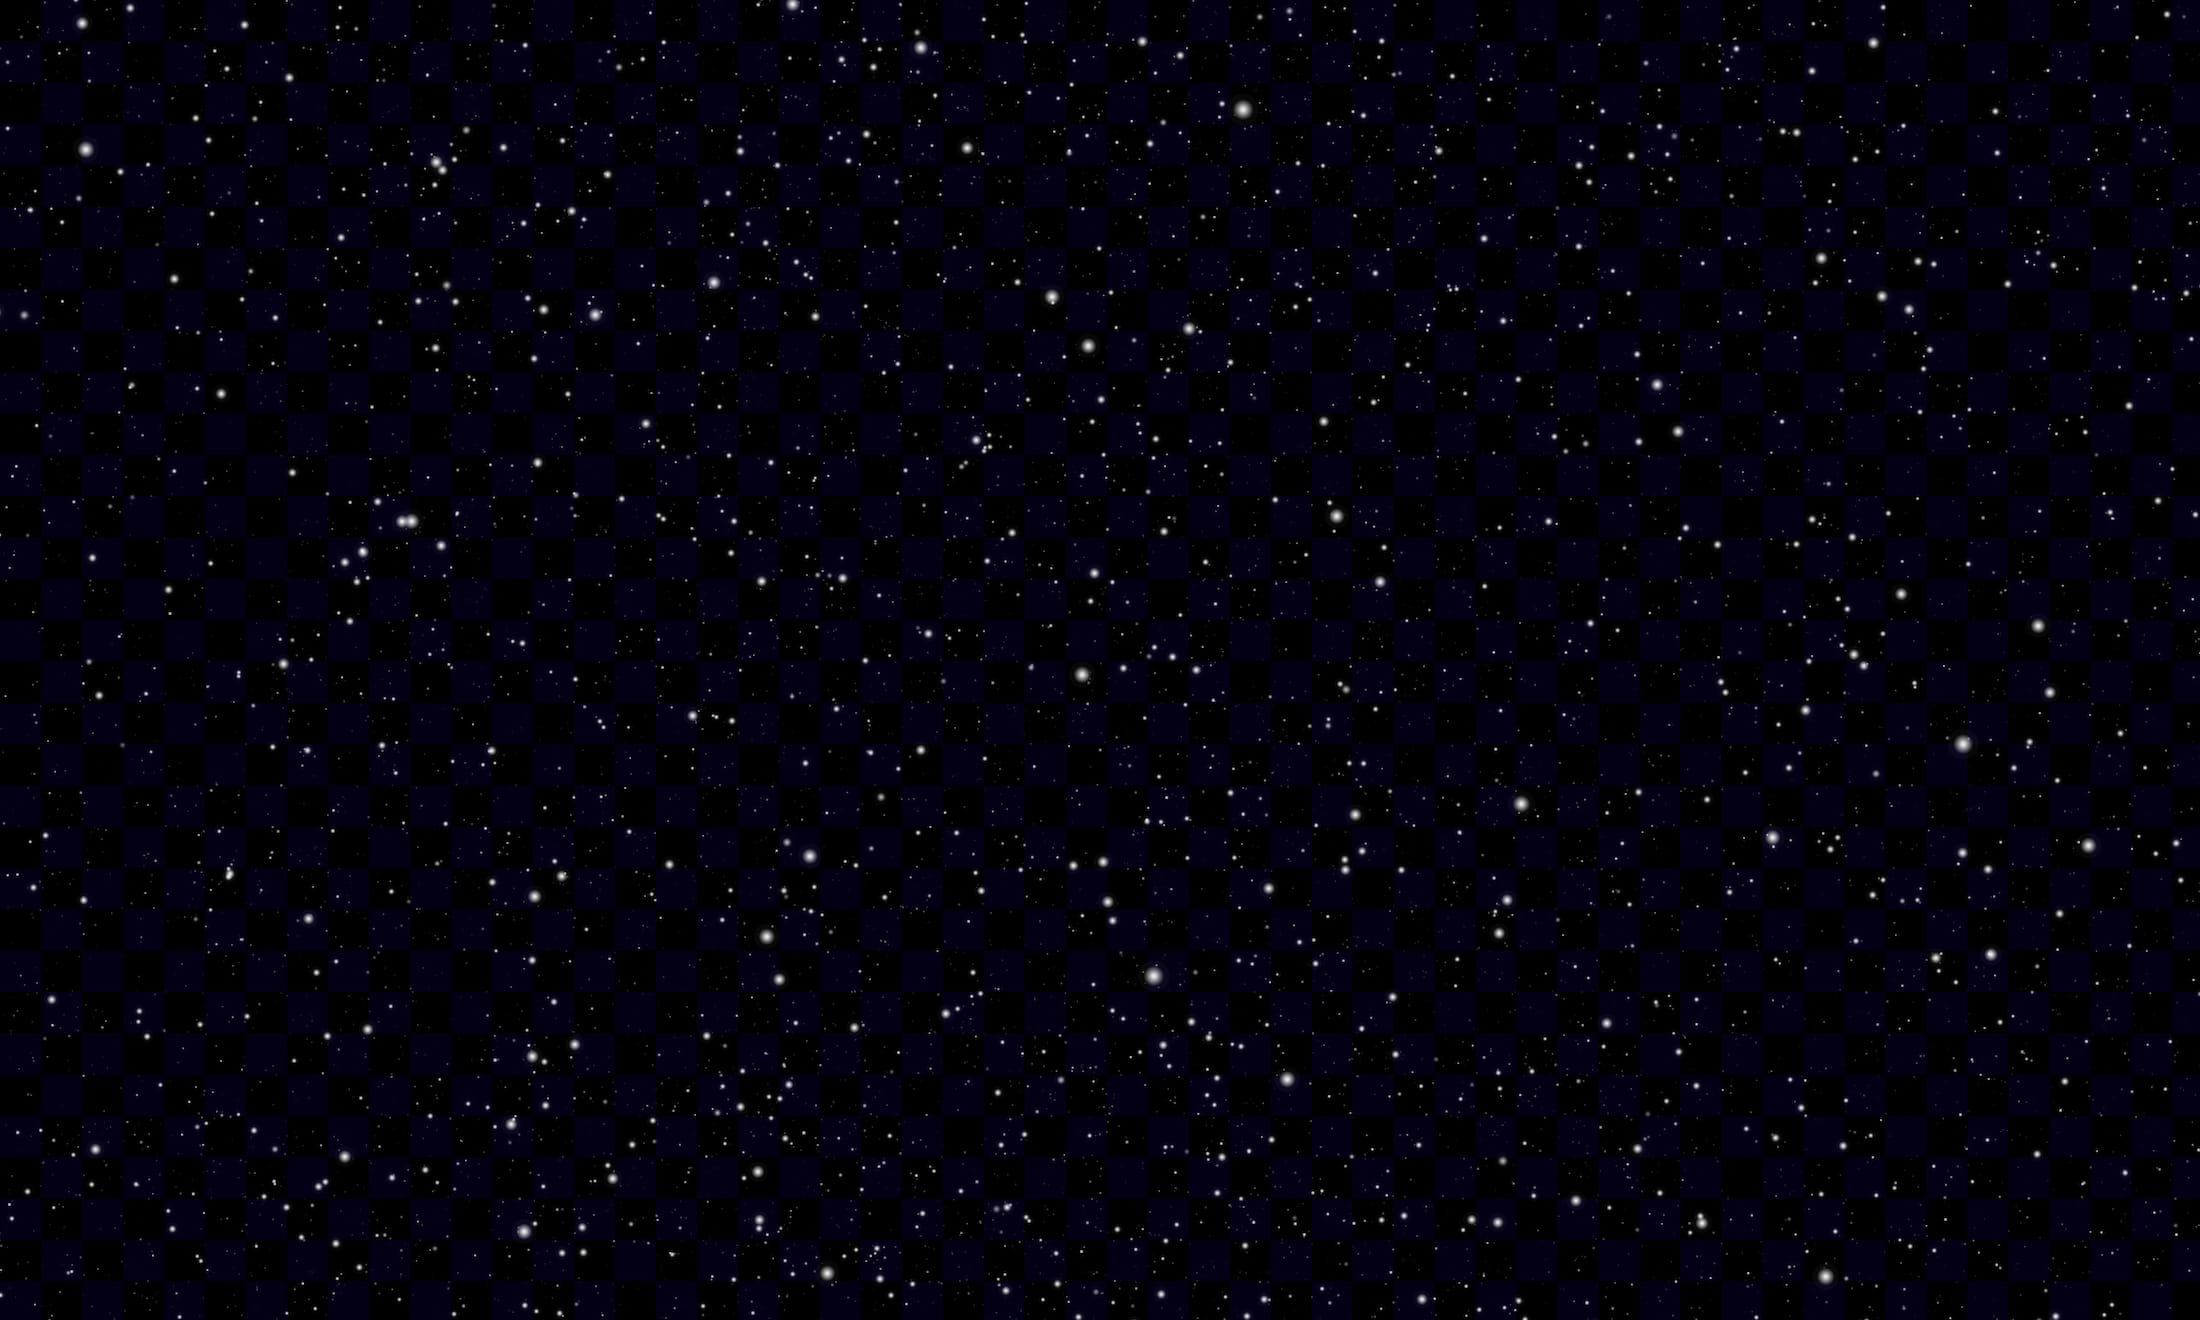
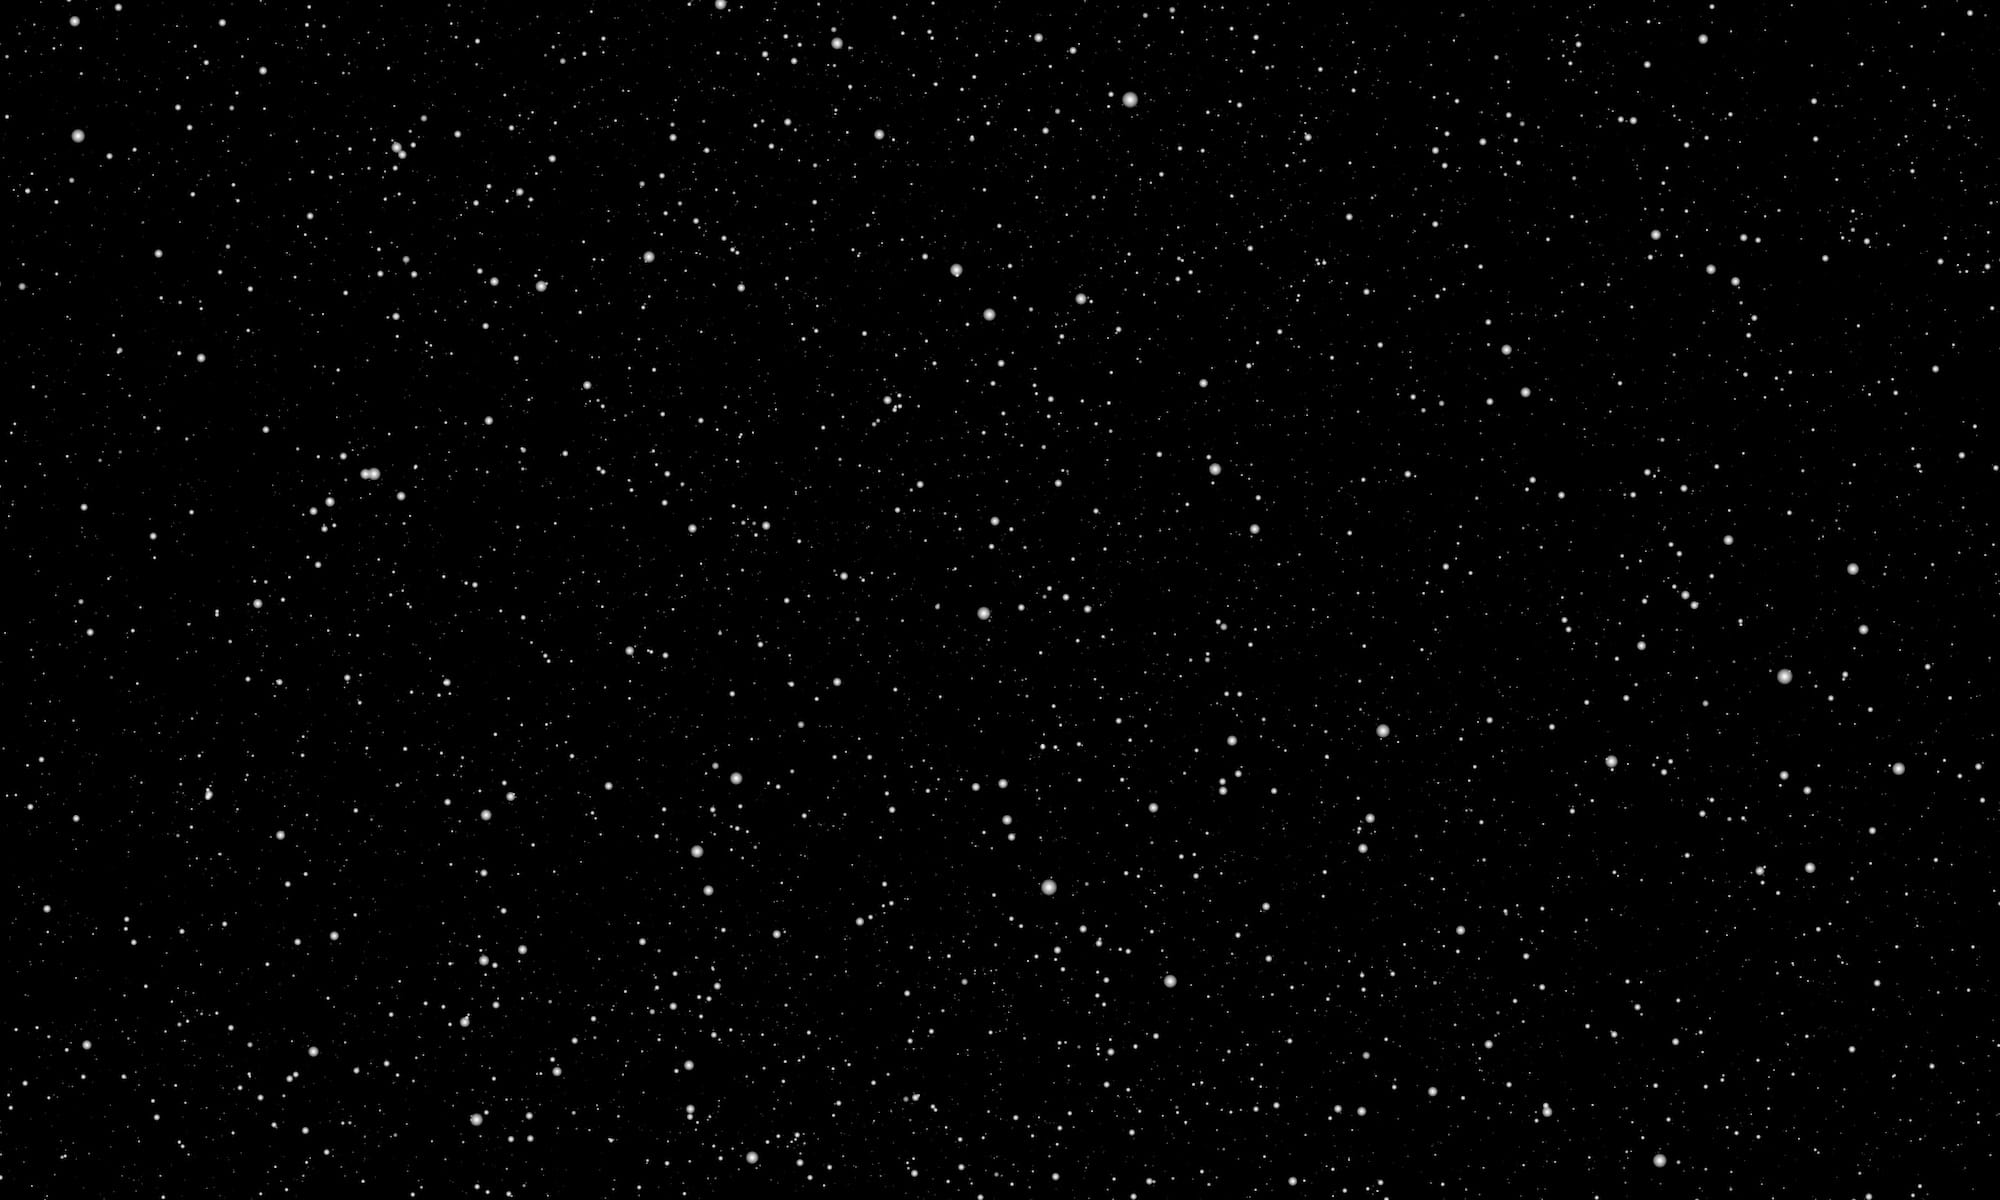
✨ add moving bg layer - convert webp

diff --git a/lib/pixi/spaceBg/createSpaceBg.ts b/lib/pixi/spaceBg/createSpaceBg.ts
@@ -1,0 +1,69 @@
+import gsap from 'gsap'
+import { Application, Assets, Sprite, Texture } from 'pixi.js'
+
+import { APP_CONFIG } from '#lib/constants'
+import { setSpaceStore } from '#pixi/store'
+import { createContainer } from '#pixi/system/createContainer'
+import { createSprite } from '#pixi/system/createSprite'
+import { SpaceTile } from '#pixi/types'
+
+const scaleImageToCoverStage = (sprite: Sprite, app: Application) => {
+  const { width, height } = sprite
+  const offset = -100
+  const scale = Math.max(
+    app.renderer.width / (width + offset),
+    app.renderer.height / (height + offset),
+  )
+  sprite.scale.set(scale)
+}
+
+const createSpaceBg = async (app: Application) => {
+  const layer1Container = createContainer({
+    x: app.renderer.width / 2,
+    y: app.renderer.height / 2,
+    zIndex: 2,
+  })
+  const layer1Url = `${APP_CONFIG.viteMediaUrl}/pixi/space-bg/bg-layer1-comp.png`
+  const layer1Texture = (await Assets.load(layer1Url)) as Texture
+  const layer1Sprite = createSprite({
+    texture: layer1Texture,
+    width: layer1Texture.frame.width,
+    height: layer1Texture.frame.height,
+  })
+  scaleImageToCoverStage(layer1Sprite, app)
+  gsap.set(layer1Sprite, { alpha: 0.3 })
+  app.stage.addChild(layer1Container)
+  layer1Container.addChild(layer1Sprite)
+
+  const layer2Container = createContainer({
+    x: app.renderer.width / 2,
+    y: app.renderer.height / 2,
+    zIndex: 1,
+  })
+  const layer2Url = `${APP_CONFIG.viteMediaUrl}/pixi/space-bg/bg-layer2-comp.webp`
+  const layer2Texture = (await Assets.load(layer2Url)) as Texture
+  const layer2Sprite = createSprite({
+    texture: layer2Texture,
+    width: layer2Texture.frame.width,
+    height: layer2Texture.frame.height,
+  })
+  scaleImageToCoverStage(layer2Sprite, app)
+  gsap.set(layer2Sprite, { alpha: 0.2 })
+
+  app.stage.addChild(layer2Container)
+  layer2Container.addChild(layer2Sprite)
+
+  const tile: SpaceTile = {
+    layer1: layer1Sprite,
+    layer1ToX: gsap.quickTo(layer1Sprite, 'x', { duration: 2, ease: 'power3' }),
+    layer1ToY: gsap.quickTo(layer1Sprite, 'y', { duration: 2, ease: 'power3' }),
+    layer2: layer2Sprite,
+    layer2ToX: gsap.quickTo(layer2Sprite, 'x', { duration: 2, ease: 'power1' }),
+    layer2ToY: gsap.quickTo(layer2Sprite, 'y', { duration: 2, ease: 'power1' }),
+  }
+  setSpaceStore({
+    spaceBg: tile,
+  })
+}
+
+export default createSpaceBg

diff --git a/lib/pixi/spawner/createEmitterTiles.ts b/lib/pixi/spawner/createEmitterTiles.ts
@@ -1,7 +1,7 @@
 import gsap from 'gsap'
 import { Application, Texture } from 'pixi.js'
 
-import { EMITTER_TIMELINE, PixiConfig } from '#lib/constants'
+import { PixiConfig } from '#lib/constants'
 import { registerSpawnerTimelines } from '#pixi/spawner/registerSpawnerTimelines'
 import { getAllSpritesheets } from '#pixi/spritesheet'
 import { setEmitterStore } from '#pixi/store'
@@ -10,13 +10,12 @@ import { createSprite } from '#pixi/system/createSprite'
 import { EmitterTile } from '#pixi/types'
 import { R } from '#pixi/utils'
 
-const addEmitterTimelines = () => ({
-  [EMITTER_TIMELINE.DEFAULT]: gsap.timeline({
+const getEmitterTimeline = () =>
+  gsap.timeline({
     paused: true,
     autoRemoveChildren: true,
     repeatRefresh: true,
-  }),
-})
+  })
 
 // todo: redundant to createTileGrid -> refactor to be a single function
 // needs count and size as arguments - rely on constants mainly!
@@ -57,18 +56,17 @@ const createEmitterTiles = async (app: Application, tileSize: number) => {
       alpha: 0,
     })
 
-    const tile: EmitterTile = {
+    tilesPos.push({
       id: (tileId += 1),
       sprite,
       container,
       innerContainer,
-      timelines: addEmitterTimelines(),
-    }
+      timeline: getEmitterTimeline(),
+    })
 
     app.stage.addChild(container)
     container.addChild(innerContainer)
     innerContainer.addChild(sprite)
-    tilesPos.push(tile)
   }
 
   setEmitterStore({
@@ -76,7 +74,7 @@ const createEmitterTiles = async (app: Application, tileSize: number) => {
     activeEmitterTiles: new Set(),
   })
   tilesPos.forEach(tile => {
-    registerSpawnerTimelines({ timeline: tile.timelines[EMITTER_TIMELINE.DEFAULT], tile })
+    registerSpawnerTimelines({ timeline: tile.timeline, tile })
   })
 }
 

diff --git a/lib/pixi/types.d.ts b/lib/pixi/types.d.ts
@@ -1,23 +1,5 @@
 import { Container, Sprite } from 'pixi.js'
 
-import { EMITTER_TIMELINE } from '#root/lib/constants'
-
-export type EmitterTimelines = {
-  [key in EMITTER_TIMELINE]: gsap.core.Timeline
-}
-
-export type SetPositionFncType = (x: number, y: number, accX: number, accY: number) => void
-export type SetPositionFncTypeExt = (
-  x: number,
-  y: number,
-  accX: number,
-  accY: number,
-  mouseX: number,
-  mouseY: number,
-  id: number,
-  isInHitbox: boolean,
-) => void
-
 export type Hitbox = {
   x: number
   y: number
@@ -31,11 +13,33 @@ export type Tile = {
   y: number
 }
 
+export type EmitterSetPositionFncType = (x: number, y: number, accX: number, accY: number) => void
+export type EmitterSetPositionFncTypeExt = (
+  x: number,
+  y: number,
+  accX: number,
+  accY: number,
+  mouseX: number,
+  mouseY: number,
+  id: number,
+  isInHitbox: boolean,
+) => void
+
 export type EmitterTile = {
   id: number
   sprite: Sprite
   container: Container
   innerContainer: Container
-  timelines: EmitterTimelines
-  setPosition?: SetPositionFncTypeExt
+  timeline: gsap.core.Timeline
+  setPosition?: EmitterSetPositionFncTypeExt
+}
+
+export type SpaceSetPositionFncType = (x: number, y: number) => void
+export type SpaceTile = {
+  layer1: Sprite
+  layer1ToX: gsap.QuickToFunc
+  layer1ToY: gsap.QuickToFunc
+  layer2: Sprite
+  layer2ToX: gsap.QuickToFunc
+  layer2ToY: gsap.QuickToFunc
 }

diff --git a/components/organisms/Footer.tsx b/components/organisms/Footer.tsx
@@ -1,5 +1,6 @@
 import BlurDot from '#atoms/BlurDot'
 import Layout from '#atoms/Layout'
+import { APP_CONFIG } from '#lib/constants'
 import MainNavigation from '#organisms/MainNavigation'
 import { usePageContext } from '#renderer/usePageContext'
 
@@ -14,6 +15,11 @@ const Footer = () => {
       <Layout className="text-center flex flex-col gap-2 items-center">
         <BlurDot className="w-40 h-40 opacity-30 top-full -m-20 fixed" />
         <MainNavigation className="inline-block z-10" ulProps={{ className: 'gap-6' }} />
+        <img
+          src={`${APP_CONFIG.viteMediaUrl}/logo-xs.png`}
+          alt="Richard Unterberg"
+          className="pixi-hitbox w-8 h-8 mb-3"
+        />
         <div className="pixi-hitbox pb-5 md:pb-7 inline-block">
           <div className="text-grayLight relative z-10">
             <p className="mb-2">2024, Richard Unterberg</p>

diff --git a/lib/pixi/initStage.ts b/lib/pixi/initStage.ts
@@ -3,6 +3,7 @@ import gsap from 'gsap'
 import { registerAutoPointer } from '#pixi/autoPointer'
 import { registerUserEvents } from '#pixi/events'
 import { createHitboxes } from '#pixi/pointer'
+import createSpaceBg from '#pixi/spaceBg/createSpaceBg'
 import createEmitterTiles from '#pixi/spawner/createEmitterTiles'
 import { getStore, setStore, Store } from '#pixi/store'
 import { createApp } from '#pixi/system/createApp'
@@ -40,11 +41,12 @@ export const initStage = async (
       colsCount: Math.ceil(app.renderer.width / tileWidth),
       tileHeight,
       tileWidth,
-      ...PixiConfig,
+      ...PixiConfig, // todo: refactor to be a single store
     }
     setStore(store)
 
     await createEmitterTiles(app, tileWidth)
+    await createSpaceBg(app)
 
     gsap.to(stage, { autoAlpha: 1, delay: 0.2, duration: 2 })
 

diff --git a/lib/constants.ts b/lib/constants.ts
@@ -14,6 +14,10 @@ export enum EMITTER_TIMELINE {
   DEFAULT,
 }
 
+export enum SPACE_TIMELINE {
+  DEFAULT,
+}
+
 // path created with figma
 export const defaultCirclePath = {
   d: 'M200 6.25942e-06C90.3739 1.10182 0.773361 90.3687 0.500015 200C0.225974 309.91 90.0953 398.395 200 399.5C311.004 400.616 399.777 311.009 399.5 200C399.224 89.2669 310.728 -1.11288 200 6.25942e-06Z',
@@ -37,16 +41,16 @@ export const PixiConfig: PixiConfigType = {
       max: 7,
     },
     gravity: {
-      value: 1,
+      value: 0,
       min: -5,
       max: 5,
     },
+    // they need to change together - inertia and momentum
     pointerInertia: {
       value: 1.5,
       min: 0.5,
       max: 5,
     },
-    // they need to change together
     pointerMomentumModifier: {
       value: 2,
       min: 0,

diff --git a/lib/pixi/store.ts b/lib/pixi/store.ts
@@ -1,7 +1,7 @@
 import { Application, Renderer } from 'pixi.js'
 
 import { PixiConfigType } from '#lib/types'
-import { EmitterTile, Hitbox, Tile } from '#pixi/types'
+import { EmitterTile, Hitbox, SpaceTile, Tile } from '#pixi/types'
 
 export type Store = {
   app: Application<Renderer>
@@ -31,4 +31,15 @@ let emitterStore: EmitterStore
 export const getEmitterStore = () => emitterStore
 export const setEmitterStore = (newStore: EmitterStore) => {
   emitterStore = newStore
+}
+
+export type SpaceStore = {
+  spaceBg: SpaceTile
+}
+
+let spaceStore: SpaceStore
+
+export const getSpaceStore = () => spaceStore
+export const setSpaceStore = (newStore: SpaceStore) => {
+  spaceStore = newStore
 }

diff --git a/lib/pixi/pointer.ts b/lib/pixi/pointer.ts
@@ -1,5 +1,5 @@
 import spawnTile from '#pixi/spawner/spawnTile'
-import { getStore, setStore } from '#pixi/store'
+import { getSpaceStore, getStore, setStore } from '#pixi/store'
 import { Hitbox } from '#pixi/types'
 import { R } from '#pixi/utils'
 
@@ -238,4 +238,12 @@ export const handlePointerMove = ({ x, y }: HandlePointerMoveProps) => {
     mouseX: x,
     mouseY: y,
   })
+
+  // todo: outsource
+  const { layer1ToX, layer1ToY, layer2ToX, layer2ToY } = getSpaceStore().spaceBg
+
+  layer1ToX(-x / 50)
+  layer1ToY(-y / 50)
+  layer2ToX(-x / 80)
+  layer2ToY(-y / 80)
 }

diff --git a/lib/pixi/spritesheet.ts b/lib/pixi/spritesheet.ts
@@ -33,7 +33,7 @@ export const getAllSpritesheets = async (): Promise<PixiSpriteSheetParsed[]> => 
 
   const promises = sheets.map(async sheet => {
     const sheetResponse = await getSpritesheet<GetSpritesheetResponse>(sheet.key)
-    const url = `${APP_CONFIG.viteMediaUrl}/pixi/${sheet.key}/${sheetResponse.meta.image}`
+    const url = `${APP_CONFIG.viteSiteUrl}/pixi/${sheet.key}/${sheetResponse.meta.image}`
     const texture = await Assets.load(url)
 
     const spritesheet = new Spritesheet(texture, sheetResponse)
